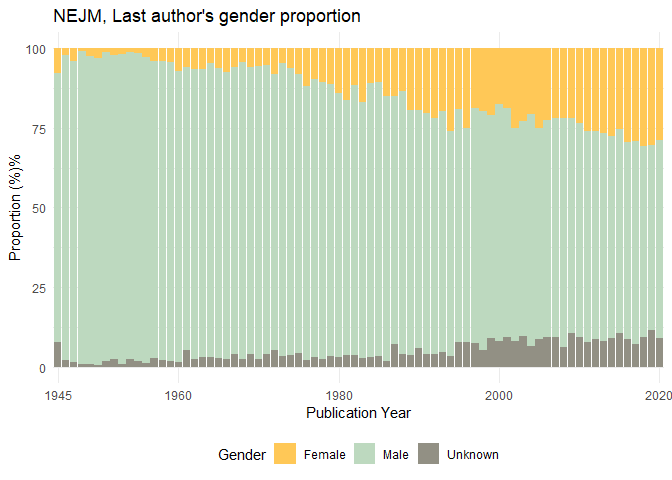
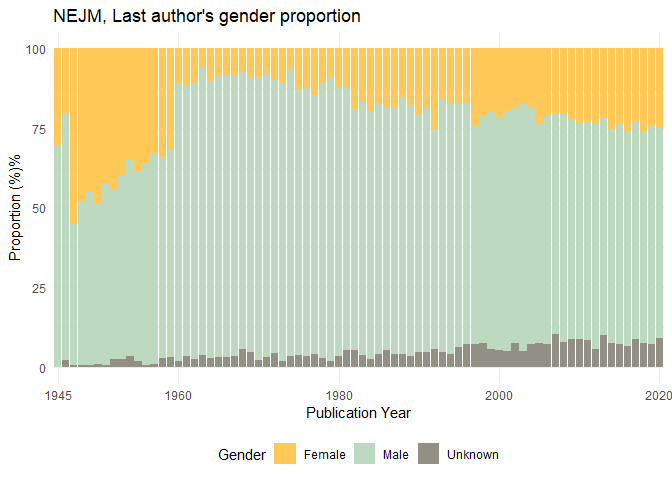
fixing

diff --git a/02_r/nejm_20y.html b/02_r/nejm_20y.html
@@ -442,10 +442,8 @@ count_single %&gt;%
   theme(legend.position = &quot;bottom&quot;)</code></pre>
[1 lines of base64/hex data omitted]
 <pre class="r"><code>count_last&lt;- year2020 %&gt;% 
-  filter(total_authors != 1) %&gt;% 
-  group_by(DOI) %&gt;% 
-  filter(author_position == last(author_position)) %&gt;% 
-  ungroup %&gt;%
+  filter(total_authors != 1,
+         author_position == total_authors) %&gt;%
   group_by(`Publication Year`, month) %&gt;% 
   count(gender) %&gt;% 
   mutate(prop = round(100*n/sum(n), 2)) %&gt;% 

diff --git a/README.md b/README.md
@@ -610,8 +610,8 @@ count_single %>%
 
 ``` r
 count_last<- data_filtered %>% 
-  filter(author_position == last(author_position),
-         total_authors != 1) %>%
+  filter(total_authors != 1,
+         author_position == total_authors) %>%
   group_by(`Publication Year`) %>% 
   count(gender) %>% 
   mutate(prop = round(100*n/sum(n), 2)) %>% 
